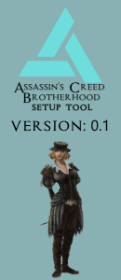
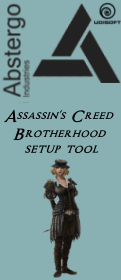
Overhauled the way widgets are displayed, added launch game option

Changed region(s): [[0.0248, 0.0, 1.0, 1.0]]

diff --git a/ACBSetupTool.py b/ACBSetupTool.py
@@ -3,6 +3,7 @@ from os import path
 import tkinter as tk
 from tkinter import ttk, messagebox, font
 from tkinter.filedialog import askdirectory
+import subprocess
 
 import webbrowser
 import gettext
@@ -11,7 +12,7 @@ _ = gettext.gettext
 version = 0.1
 
 global gamePath
-gamePath = "C:/Program Files (x86)/Steam/steamapps/common/Assassins Creed Brotherhood" #default folder
+gamePath = "C:/Program Files (x86)/Steam/steamappS/common/Assassins Creed Brotherhood" #default folder
 pathExist = path.exists(gamePath+"/ACBSP.exe")
 if pathExist == False:
 	print("Can't find directory")
@@ -110,7 +111,7 @@ def openLangMenu():
 		newLang = v.get()
 		if newLang != getLang:
 			replace_line(filename, 1, newLang)
-			answer = messagebox.askyesno("", "The language has been changed.\nChanges will take effect upon restart.\n\n"
+			answer = messagebox.askyesno("Language modification", "The language has been changed.\nChanges will take effect upon restart.\n\n"
 																						"Do you wish to restart now?")
 			if answer == True:
 				os.startfile("ACBSetupTool.py")
@@ -252,8 +253,7 @@ def applyMapChanges():
 		unsavedChanges.set("Your changes have been saved.")
 		changeLabel.config(foreground="green")
 
-def checkPathandStatus():
-	global gamePath
+def checkPathandStatus(gamePath):
 	if pathExist == True:
 		dirPath.set(gamePath)
 		acbFolder["state"] = tk.DISABLED
@@ -271,9 +271,8 @@ def checkPathandStatus():
 			except:
 				gamePath = ""
 				print("Directory not yet set")
-				fixSH["state"] = tk.DISABLED
+				applyChanges["state"] = tk.DISABLED
 
-############################################################################
 ############################################################################ Checks status of each map
 	global mapStatus
 	mapStatus = dict()
@@ -284,6 +283,12 @@ def checkPathandStatus():
 		else:
 			mapStatus[place] = False
 
+def launchGame(gamePath):
+	try:
+		subprocess.run([gamePath + "/ACBMP.exe", "/launchedfromotherexec"])
+	except:
+		messagebox.showerror("Error Launching Game!", "Game not found.\n\nCheck your directory path.")
+
 root = tk.Tk()
 root.title(_("Assassin's Creed: Brotherhood Setup Manager Tool"))
 root.minsize(width=800, height=300)
@@ -292,8 +297,13 @@ root.geometry("800x300+250+200")
 
 logo = tk.PhotoImage(file = "images/icon.png")
 biglogo = tk.PhotoImage(file = "images/sidepanel.png")
-onIMG = tk.PhotoImage(file = "images/OnSwitch.png", master=root)
-offIMG = tk.PhotoImage(file = "images/OffSwitch.png", master=root)
+onIMG = tk.PhotoImage(file = "images/OnSwitch.png")
+offIMG = tk.PhotoImage(file = "images/OffSwitch.png")
+helle = tk.PhotoImage(file = "images/hellequin.png")
+fazz = tk.PhotoImage(file = "images/blacksmith.png")
+verify = tk.PhotoImage(file = "images/verify.png")
+jigaudi = tk.PhotoImage(file = "images/jigaudi.png")
+selectMaps = tk.PhotoImage(file = "images/selectmaps.png")
 root.iconphoto(False, logo)
 
 #main window frames
@@ -311,112 +321,134 @@ b = ttk.Style()
 b.configure("lang.TRadiobutton", padx=50, font="Helvetica, 9", background="#89b0b3")
 
 logoLabel = tk.Label(root, image=biglogo, bg="#89b0b3")
-logoLabel.pack(anchor="w",fill="y")
+logoLabel.pack(side="left")
 
-tabMain = ttk.Notebook(root, width=667, height=250, padding=2)#, 
-tabMain.place(x=125)
+tabMain = ttk.Notebook(root, padding=3) 
+tabMain.pack(fill="both", expand=1)
 
-frame2 = tk.Frame(tabMain, bg=mapBG)#, width=670, height=300, borderwidth=1, 
-frame2.grid(row=0, column=1)
-frame3 = tk.Frame(tabMain, borderwidth=1, bg=mapBG)#, width=670, height=300,
-frame3.grid(row=0, column=1)
 
+#frame1 = tk.Frame(tabMain, borderwidth=1, bg=mapBG)
+
+frame2 = tk.Frame(tabMain, bg=mapBG) 
+frame2.pack(fill="both", expand=1)
+frame2.grid_columnconfigure(0, weight=1)
+frame2.grid_columnconfigure(5, weight=1)
+
+#frame3 = tk.Frame(tabMain, borderwidth=1, bg=mapBG)
+#frame3.pack()
+
+#tabMain.add(frame1, text="   Home   ")
 tabMain.add(frame2, text="   Map Selection   ")
-tabMain.add(frame3, text="   Quick Bootup   ")
+#tabMain.add(frame3, text="   Quick Bootup   ")
 
-acbFolder = tk.Button(frame2, text="Set Directory Path", bg="#38393F", command=lambda: choosePath())
-acbFolder.pack(pady=10, ipadx=30)
+############################################################################## Images on Screen
+verIMG = tk.Label(frame2, bg=mapBG, image=verify)
+verIMG.place(x=10, y=3)
+fazzChar = tk.Label(frame2, bg=mapBG, image=fazz)
+fazzChar.place(x=420)
+selectIMG = tk.Label(frame2, image=selectMaps, bg=mapBG)
+selectIMG.place(x=589, y=95)
+dell = tk.Label(frame2, image=helle, bg=mapBG)
+dell.place(x=8, y=130)
+jigaudiChar = tk.Label(frame2, image=jigaudi, bg=mapBG)
+jigaudiChar.place(x=595, y=185)
+################################################################################################
 
-pathLabel = tk.Label(frame2, textvariable=dirPath, bg="#38393F", borderwidth=3, width=100, anchor="center", relief="sunken")
-pathLabel.pack(padx=20)
 
-########################################################################### Checks game path directory
+acbFolder = tk.Button(frame2, text="Set Directory Path", bg="#38393F", font=mapFonts, command=lambda: choosePath())
+acbFolder.grid(row=0, column=1, columnspan=4, pady=(8,0))
+
+pathLabel = tk.Entry(frame2, textvariable=dirPath, width=80, bg="#38393F", font=mapFonts, borderwidth=3, justify="center", relief="sunken", state="readonly")
+pathLabel.grid(row=1, column=1, columnspan=4, pady=(12,0))
+
+mapFrame = tk.Frame(frame2 ,borderwidth=1, bg=mapBG, relief="sunken")
+mapFrame.grid(row=2, column=1, columnspan=4, pady=(13,0))
 
 
-############################################################################
 
-
-mapFrame = tk.Frame(frame2, borderwidth=1, height=150, bg=mapBG, relief="sunken")
-mapFrame.pack(fill="both", pady=10, padx=10)
 
 #SanDon
 labelSanDon = tk.Label(mapFrame, text="San Donato", font=mapFonts, bg=mapBG)
-labelSanDon.grid(row=0, column=0, padx=30, pady=5)
+labelSanDon.grid(row=0, column=0, padx=(25,0))
 buttonSanDon = tk.Button(mapFrame, bg=mapBG, activebackground=mapBG, bd=0, image=onIMG, command=lambda: switchState("San Donato"))
 buttonSanDon.grid(row=0, column=1)
 
+
 #Castel
 labelCastel = tk.Label(mapFrame, text="Castel Gandolfo", font=mapFonts, bg=mapBG)
-labelCastel.grid(row=1, column=0)
+labelCastel.grid(row=1, column=0, pady=(5,0), padx=(25,0))
 buttonCastel = tk.Button(mapFrame, bg=mapBG, activebackground=mapBG, bd=0, image=onIMG, command=lambda: switchState("Castel Gandolfo"))
-buttonCastel.grid(row=1, column=1)
+buttonCastel.grid(row=1, column=1, pady=(5,0))
 
 #MSM
 labelMSM = tk.Label(mapFrame, text="Mont St-Michel", font=mapFonts, bg=mapBG)
-labelMSM.grid(row=2, column=0)
+labelMSM.grid(row=2, column=0, pady=(5,0), padx=(25,0))
 buttonMSM = tk.Button(mapFrame, bg=mapBG, activebackground=mapBG, bd=0, image=onIMG, command=lambda: switchState("Mont St-Michel"))
-buttonMSM.grid(row=2, column=1)
+buttonMSM.grid(row=2, column=1, pady=(5,0))
 
 
 #Monti
 labelMonteriggioni = tk.Label(mapFrame, text="Monteriggioni", font=mapFonts, bg=mapBG)
-labelMonteriggioni.grid(row=3, column=0)
+labelMonteriggioni.grid(row=3, column=0, pady=(5,0), padx=(25,0))
 buttonMonteriggioni = tk.Button(mapFrame, bg=mapBG, activebackground=mapBG, bd=0, image=onIMG, command=lambda: switchState("Monteriggioni"))
-buttonMonteriggioni.grid(row=3, column=1)
+buttonMonteriggioni.grid(row=3, column=1, pady=(5,0))
 
 
 #Alhambra
 labelAlhambra = tk.Label(mapFrame, text="Alhambra", font=mapFonts, bg=mapBG)
-labelAlhambra.grid(row=0, column=2, padx=25)
+labelAlhambra.grid(row=0, column=2, padx=(25,0))
 buttonAlhambra = tk.Button(mapFrame, bg=mapBG, activebackground=mapBG, bd=0, image=onIMG, command=lambda: switchState("Alhambra"))
 buttonAlhambra.grid(row=0, column=3)
 
 #Florence
 labelFlorence = tk.Label(mapFrame, text="Florence", font=mapFonts, bg=mapBG)
-labelFlorence.grid(row=1, column=2, pady=5)
+labelFlorence.grid(row=1, column=2, pady=(5,0), padx=(25,0))
 buttonFlorence = tk.Button(mapFrame, bg=mapBG, activebackground=mapBG, bd=0, image=onIMG, command=lambda: switchState("Florence"))
-buttonFlorence.grid(row=1, column=3)
+buttonFlorence.grid(row=1, column=3, pady=(5,0))
 
 #Pienza
 labelPienza = tk.Label(mapFrame, text="Pienza", font=mapFonts, bg=mapBG)
-labelPienza.grid(row=2, column=2, padx=10, pady=5)
+labelPienza.grid(row=2, column=2, pady=(5,0), padx=(25,0))
 buttonPienza = tk.Button(mapFrame, bg=mapBG, activebackground=mapBG, bd=0, image=onIMG, command=lambda: switchState("Pienza"))
-buttonPienza.grid(row=2, column=3)
+buttonPienza.grid(row=2, column=3, pady=(5,0))
 
 #Venice
 labelVenice = tk.Label(mapFrame, text="Venice", font=mapFonts, bg=mapBG)
-labelVenice.grid(row=3, column=2, padx=10, pady=5)
+labelVenice.grid(row=3, column=2, padx=(25,0))
 buttonVenice = tk.Button(mapFrame, bg=mapBG, activebackground=mapBG, bd=0, image=onIMG, command=lambda: switchState("Venice"))
 buttonVenice.grid(row=3, column=3)
 
 
 #Forli
 labelForli = tk.Label(mapFrame, text="Forli", font=mapFonts, bg=mapBG)
-labelForli.grid(row=0, column=4, padx=35)
+labelForli.grid(row=0, column=4, padx=(25,0))
 buttonForli = tk.Button(mapFrame, bg=mapBG, activebackground=mapBG, bd=0, image=onIMG, command=lambda: switchState("Forli"))
-buttonForli.grid(row=0, column=5)
+buttonForli.grid(row=0, column=5, padx=(0,30))
 
 #Siena
 labelSiena = tk.Label(mapFrame, text="Siena", font=mapFonts, bg=mapBG)
-labelSiena.grid(row=1, column=4, padx=10)
+labelSiena.grid(row=1, column=4, pady=(5,0), padx=(25,0))
 buttonSiena = tk.Button(mapFrame, bg=mapBG, activebackground=mapBG, bd=0, image=onIMG, command=lambda: switchState("Siena"))
-buttonSiena.grid(row=1, column=5)
+buttonSiena.grid(row=1, column=5, pady=(5,0), padx=(0,30))
 
 
 #Rome
 labelRome = tk.Label(mapFrame, text="Rome", font=mapFonts, bg=mapBG)
-labelRome.grid(row=2, column=4, padx=10, pady=5)
+labelRome.grid(row=2, column=4, pady=(5,0), padx=(25,0))
 buttonRome = tk.Button(mapFrame, bg=mapBG, activebackground=mapBG, bd=0, image=onIMG, command=lambda: switchState("Rome"))
-buttonRome.grid(row=2, column=5)
+buttonRome.grid(row=2, column=5, pady=(5,0), padx=(0,30))
 
 
 
 changeLabel = tk.Label(frame2, textvariable=unsavedChanges, bg=mapBG, font="Arial, 8 italic", foreground="red")
-changeLabel.place(x=490, y=218)
-fixSH = tk.Button(frame2, text="Apply Changes", bg="#38393F", command=lambda: applyMapChanges())
-fixSH.pack()
+changeLabel.place(x=425, y=208)
 
-checkPathandStatus()
+applyChanges = tk.Button(frame2, text="Apply Changes", bg="#38393F", font=mapFonts, activeforeground="green", command=lambda: applyMapChanges())
+applyChanges.grid(row=3, column=2, columnspan=2, ipadx=5, pady=(15,0))
+startGame = tk.Button(frame2, text="Launch Multiplayer", bg="#38393F", font=mapFonts, command=lambda: launchGame(gamePath))
+startGame.grid(row=3, column=1, columnspan=2, ipadx=10, pady=(15,0))
+
+checkPathandStatus(gamePath)
 print("\nGame path is: ", gamePath)
 
 ###############################################################################
@@ -461,8 +493,7 @@ settingsmenu = tk.Menu(bar_menu, tearoff=0)
 anmenu = tk.Menu(bar_menu, tearoff=0)
 bar_menu.add_cascade(menu=filemenu, label="File")
 bar_menu.add_cascade(menu=settingsmenu, label="Settings")
-bar_menu.add_cascade(menu=anmenu, label="Assassins Network")
-
+bar_menu.add_cascade(menu=anmenu, label="Assassins' Network")
 
 #file menu
 filemenu.add_command(label="Placeholder")
@@ -475,7 +506,6 @@ settingsmenu.add_command(label="Change Interface Language", command=lambda: open
 #AN menu
 anmenu.add_command(label="Website", command=lambda: webbrowser.open(ANwebsite))
 anmenu.add_command(label="Rulebook", command=lambda: webbrowser.open(ANrulebook))
-anmenu.add_command(label="Donate to Dellpit-san")
 
 root.config(menu=bar_menu)
 root.mainloop()

diff --git a/README.md b/README.md
@@ -3,4 +3,4 @@
 A tool to configure what maps to load with the game, and enable fast multiplayer bootup.
 More features might be added as dev work goes forward.
 
-Still early in development and has no functionality besides running a window.
+Current version automatically detects your install path if it's the Steam version, otherwise you have to manually set it. Once it's set you can disable maps, apply the changes and press launch.
